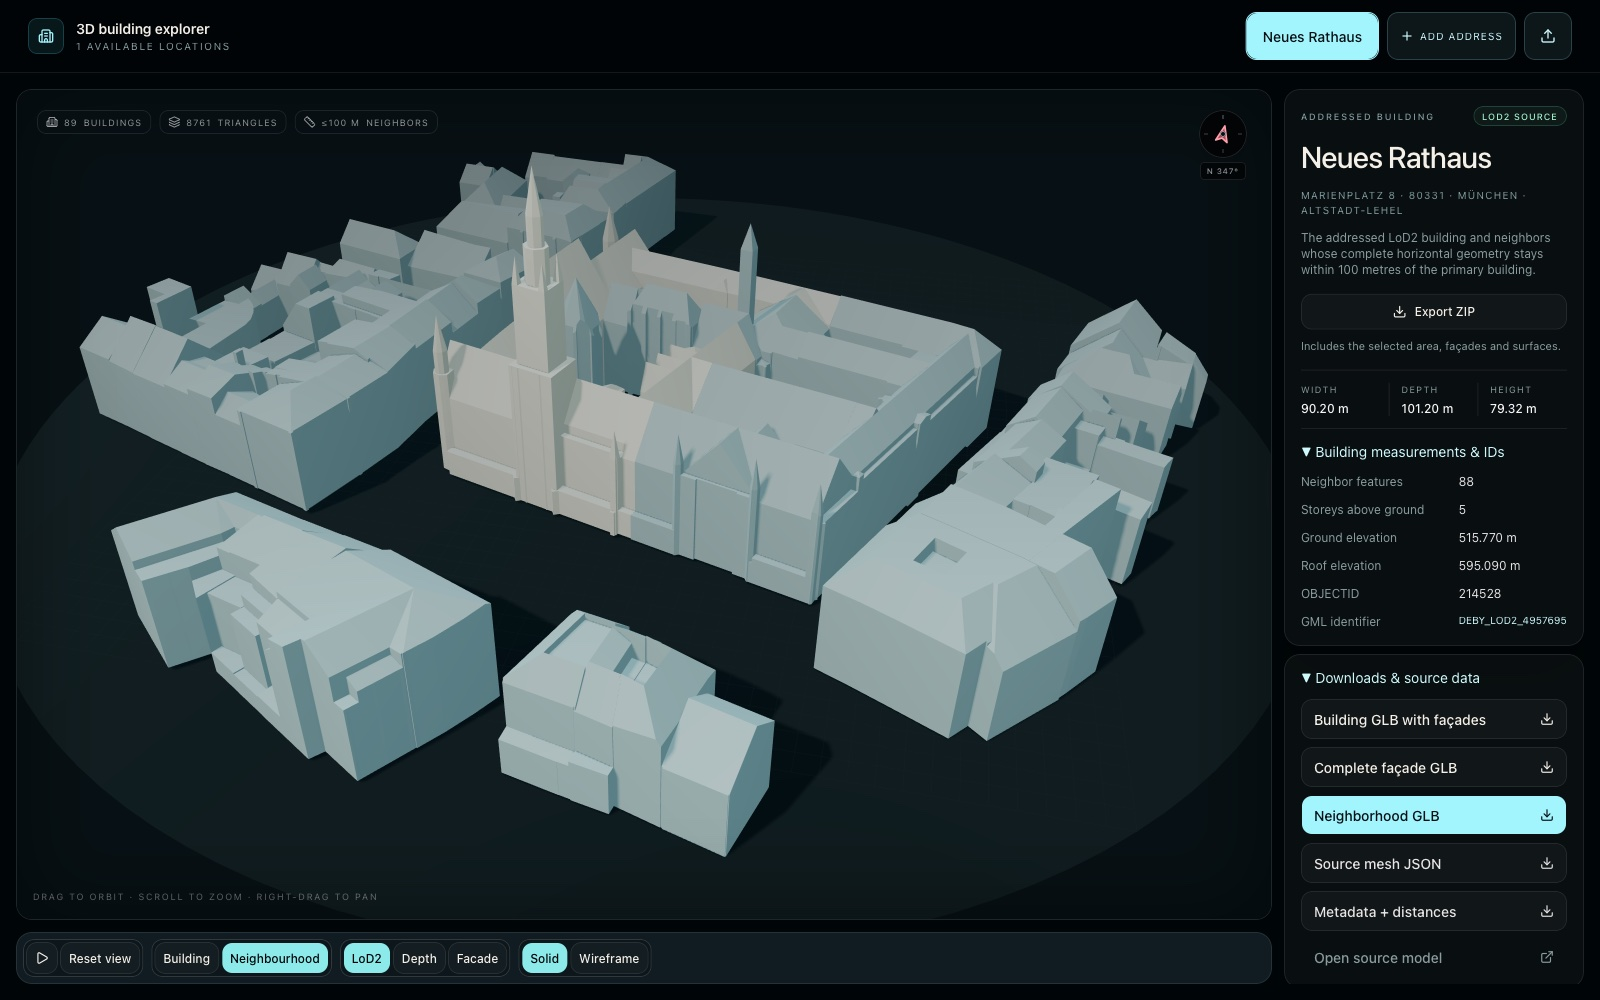
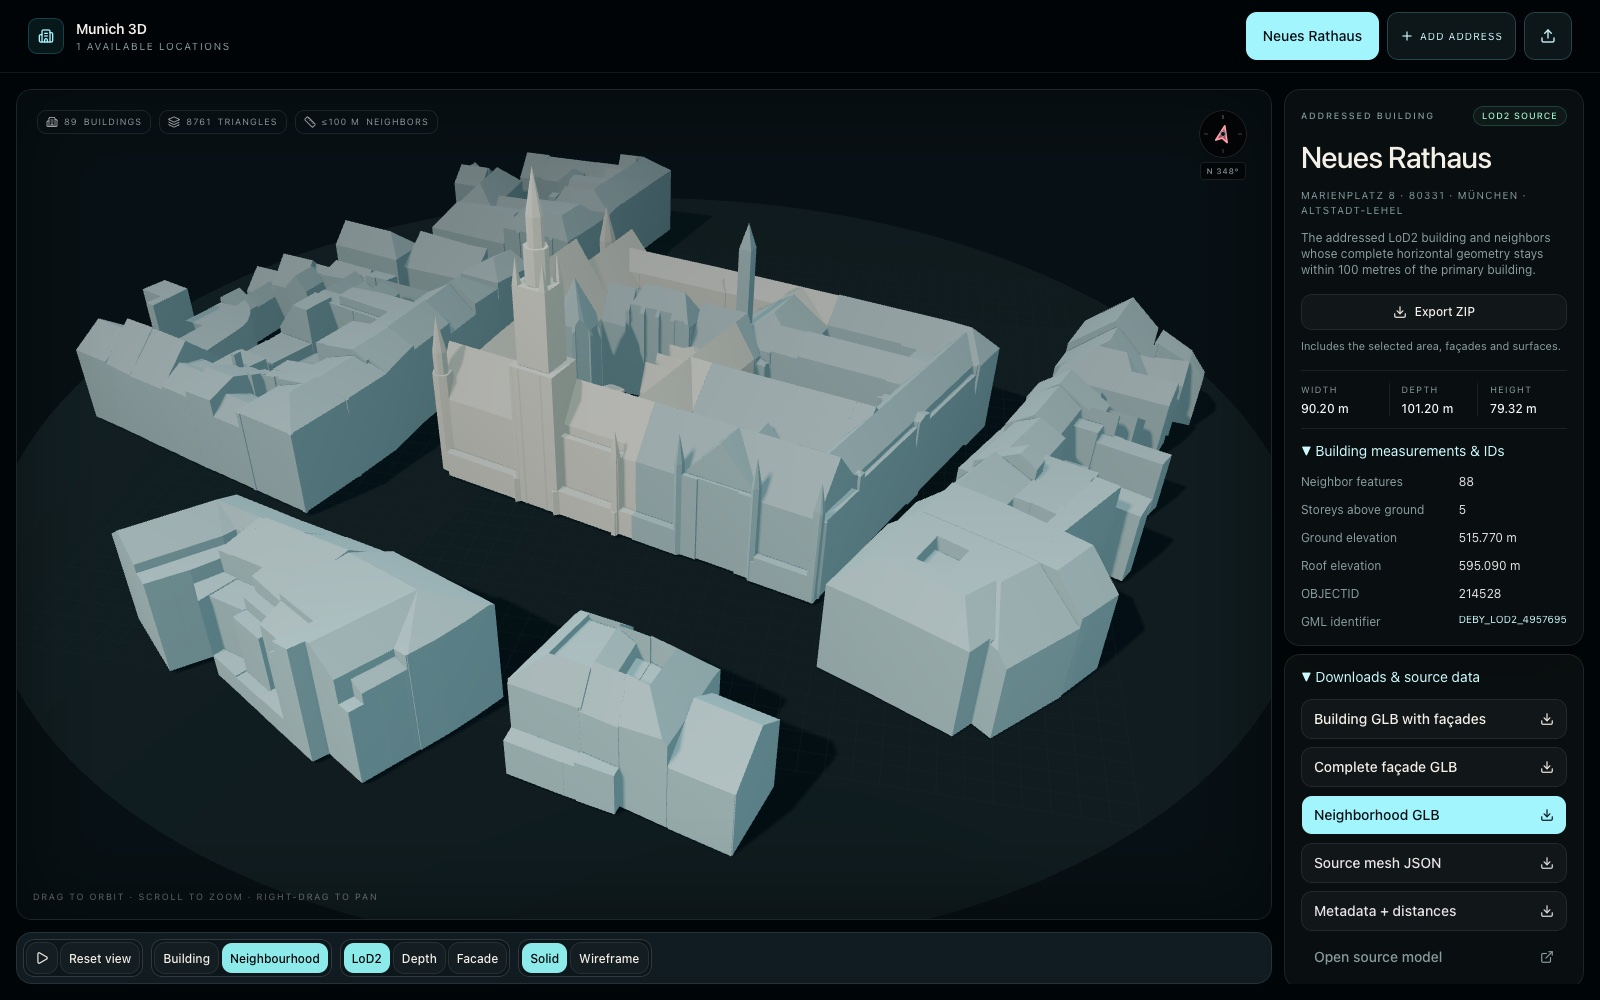
Fix iPhone form positioning and model view controls

diff --git a/website/src/App.tsx b/website/src/App.tsx
@@ -1,5 +1,6 @@
 import { exportFilename } from '@/lib/export-filename';
 import { useEffect, useRef, useState, type SyntheticEvent } from 'react';
+import { createPortal } from 'react-dom';
 import {
   Building2,
   Download,
@@ -351,6 +352,7 @@ export default function App() {
       setPlaces(remaining);
       setSelectedId((equivalentStatic ?? remaining[0]).id);
       setShowNeighbors(true);
+      setInfoOpen(false);
     } catch (error) {
       setModelActionError(
         error instanceof Error ? error.message : 'Model deletion failed',
@@ -378,7 +380,7 @@ export default function App() {
 
 
   return (
-    <main className="app-shell flex h-dvh min-h-0 flex-col overflow-hidden bg-background text-foreground">
+    <main inert={generatorOpen} className="app-shell flex h-dvh min-h-0 flex-col overflow-hidden bg-background text-foreground">
       <header className="app-header shrink-0 border-b border-white/8 bg-background/90 px-4 py-3 backdrop-blur-xl sm:px-7">
         <div className="header-layout mx-auto flex max-w-[1680px] flex-col gap-3 sm:flex-row sm:items-center sm:justify-between">
           <div className="header-brand flex min-w-0 items-center gap-3">
@@ -387,7 +389,7 @@ export default function App() {
             </span>
             <div className="min-w-0">
               <h1 className="truncate text-sm font-semibold tracking-[-0.01em]">
-                3D building explorer
+                Munich 3D
               </h1>
               <p className="truncate font-sans text-[10px] uppercase tracking-[0.16em] text-muted-foreground">
                 {locations.length} available locations
@@ -432,8 +434,8 @@ export default function App() {
         {shareOperation === 'import' && (sharing || shareMessage) && <p role="status" className="mx-auto mt-2 max-w-[1680px] text-xs text-cyan-100 sm:text-right">{sharing || shareMessage}</p>}
       </header>
 
-      {generatorOpen && (
-        <div className="dialog-overlay z-50 grid place-items-center bg-black/70 p-3 backdrop-blur-sm sm:p-4">
+      {generatorOpen && createPortal(
+        <div className="generator-overlay dialog-overlay z-50 grid place-items-center bg-black/70 p-3 sm:p-4">
           <dialog
             open
             aria-labelledby="generator-title"
@@ -544,7 +546,7 @@ export default function App() {
               </div>
             </form>
           </dialog>
-        </div>
+        </div>, document.body
       )}
 
       {deleteCandidate && (
@@ -632,7 +634,7 @@ export default function App() {
         <div ref={setControlsTarget} className="viewer-controls-host shrink-0" />
         </div>
         <aside aria-label="Building information" className={cn('building-information min-h-0 flex-col gap-2 overflow-y-auto lg:static lg:flex lg:w-auto lg:border-0 lg:bg-transparent lg:p-0', infoOpen ? 'fixed inset-y-3 right-3 z-40 flex w-[min(320px,calc(100vw-24px))] rounded-xl border border-white/15 bg-[#071014] p-3' : 'hidden')}>
-          <button type="button" onClick={() => setInfoOpen(false)} className="min-h-10 shrink-0 rounded-lg border border-white/15 text-sm lg:hidden">Close information</button>
+          <button type="button" onClick={() => setInfoOpen(false)} className="flex min-h-11 shrink-0 items-center justify-center gap-2 rounded-lg border border-cyan-200 bg-cyan-200 px-3 text-sm font-semibold text-[#061014] hover:bg-cyan-100 focus-visible:outline-2 focus-visible:outline-offset-2 focus-visible:outline-cyan-200 lg:hidden"><X className="size-4" aria-hidden="true" />Close information</button>
           <section className="panel shrink-0 px-4 py-4">
             <div className="mb-3 flex items-center justify-between gap-3">
               <p className="eyebrow">Addressed building</p>
@@ -782,13 +784,22 @@ export default function App() {
             </div>
           </details>
 
-          <footer className="mt-auto shrink-0 px-2 pb-2 pt-1 text-[10px] leading-4 text-muted-foreground">
-            <p>© 2026 Robert Zaufall</p>
-            <p>Building data: <a href="https://www.geodaten.bayern.de" className="hover:underline">Bayerische Vermessungsverwaltung – www.geodaten.bayern.de</a> · CC BY 4.0</p>
-            {place.areaSurfacePath && <p>Surface data: <a href="https://www.openstreetmap.org/copyright" className="hover:underline">© OpenStreetMap contributors · ODbL</a></p>}
+          <footer className="mt-auto hidden shrink-0 px-2 pb-2 pt-1 text-[10px] leading-4 text-muted-foreground lg:block">
+            <Attribution hasSurfaces={Boolean(place.areaSurfacePath)} />
           </footer>
         </aside>
       </div>
+      <footer className="shrink-0 border-t border-white/10 px-6 py-3 text-[10px] leading-4 text-muted-foreground lg:hidden">
+        <Attribution hasSurfaces={Boolean(place.areaSurfacePath)} />
+      </footer>
     </main>
   );
+}
+
+function Attribution({ hasSurfaces }: { hasSurfaces: boolean }) {
+  return <>
+    <p>© 2026 Robert Zaufall</p>
+    <p>Building data: <a href="https://www.geodaten.bayern.de" className="hover:underline">Bayerische Vermessungsverwaltung – www.geodaten.bayern.de</a> · CC BY 4.0</p>
+    {hasSurfaces && <p>Surface data: <a href="https://www.openstreetmap.org/copyright" className="hover:underline">© OpenStreetMap contributors · ODbL</a></p>}
+  </>;
 }

diff --git a/website/components/house-viewer.tsx b/website/components/house-viewer.tsx
@@ -70,6 +70,7 @@ export function HouseViewer({
   const [status, setStatus] = useState<'loading' | 'ready' | 'error'>('loading');
   const [autoRotate, setAutoRotate] = useState(true);
   const [wireframe, setWireframe] = useState(false);
+  const [resetRequest, setResetRequest] = useState(0);
   const [depthMap, setDepthMap] = useState(false);
 
   useEffect(() => {
@@ -511,6 +512,19 @@ export function HouseViewer({
 
   useEffect(() => { wireframeRef.current = wireframe; }, [wireframe]);
 
+  // Fit after the parent scope and display changes have updated their refs.
+  useEffect(() => {
+    if (resetRequest) fitViewRef.current?.();
+  }, [resetRequest]);
+
+  const resetToDefaults = () => {
+    setDepthMap(false);
+    setWireframe(false);
+    onReconstructionChange?.(false);
+    onNeighborsChange?.(true);
+    setResetRequest(value => value + 1);
+  };
+
 
   const resetView = () => {
     const camera = cameraRef.current;
@@ -614,7 +628,7 @@ export function HouseViewer({
             <Button className="size-8 shrink-0 p-0" variant={autoRotate ? 'default' : 'outline'} aria-label={autoRotate ? 'Pause rotation' : 'Rotate view'} title={autoRotate ? 'Pause rotation' : 'Rotate view'} aria-pressed={autoRotate} onClick={() => setAutoRotate(v => !v)}>
               {autoRotate ? <Pause className="size-3.5" /> : <Play className="size-3.5" />}
             </Button>
-            <Button className={compactButton} variant="outline" onClick={resetView}>Reset view</Button>
+            <Button className={compactButton} variant="outline" onClick={resetToDefaults}>Reset view</Button>
           </div>
           {onInformationOpen && <Button className={`${compactButton} controls-info lg:hidden`} variant="outline" aria-label="Building information & area size" title="Building information & area size" onClick={onInformationOpen}>Info</Button>}
         </nav>, controlsTarget)}

diff --git a/website/src/globals.css b/website/src/globals.css
@@ -140,6 +140,8 @@ canvas {
   background: #0b171c;
   max-height: 100%;
   scroll-padding-block: 1rem;
+  backdrop-filter: none;
+  -webkit-backdrop-filter: none;
 }
 
 .dialog-panel input {
@@ -169,6 +171,36 @@ canvas {
 }
 
 @media (max-width: 1023px) {
+  /* Keep text inputs in document flow, outside iOS's fixed-position caret layer.
+     Let Safari scroll the form for its keyboard instead of moving it in JS. */
+  html:has(.generator-overlay), body:has(.generator-overlay),
+  body:has(.generator-overlay) #root {
+    height: auto;
+    min-height: 100%;
+    overflow: visible;
+  }
+  body:has(.generator-overlay) .app-shell {
+    position: absolute;
+    top: 0;
+    visibility: hidden;
+    pointer-events: none;
+  }
+  .generator-overlay {
+    position: static;
+    display: block;
+    height: auto;
+    min-height: 100svh;
+    padding-top: max(0.75rem, env(safe-area-inset-top));
+    padding-bottom: max(0.75rem, env(safe-area-inset-bottom));
+    background: #071014;
+  }
+  .generator-overlay .generator-panel {
+    position: static;
+    max-height: none;
+    margin-inline: auto;
+    overflow: visible;
+  }
+  .generator-panel > button[aria-label="Close address generator"] { position: static; float: right; margin: -0.5rem -0.5rem 0 0.5rem; }
   .app-shell {
     width: min(100%, var(--app-width, 100%));
     max-width: 100%;

diff --git a/website/index.html b/website/index.html
@@ -8,7 +8,7 @@
       content="Explore all available source-matched LoD2 building neighborhoods in Munich."
     />
     <link rel="icon" type="image/svg+xml" href="/favicon.svg" />
-    <title>München 3D explorer</title>
+    <title>Munich 3D</title>
   </head>
   <body>
     <div id="root"></div>

diff --git a/README.md b/README.md
@@ -48,14 +48,18 @@ when needed, without horizontal scrolling in portrait. The **+** button opens
 Add address; Import ZIP stays beside it.
 Clear margins on both sides of the model allow vertical scrolling on short screens
 without rotating the model; dragging within the model still controls the camera.
-The address dialog scrolls within the space above the keyboard. Its distance field can be cleared
+On phones, copyright and data attribution appear at the bottom of the main page.
+The information panel has a filled **Close information** button at the top.
+On phones, Add address opens a normal scrolling form so Safari can position the
+keyboard and text caret together. Its distance field can be cleared
 while editing; focusing a value of **0** selects it for replacement.
+Deleting a model successfully closes the mobile information panel and selects a fallback.
 
 The bottom bar groups direct controls:
 
 - **Rotation icon / Reset view**: rotation starts automatically; pause or resume
-  it with the icon. Reset view restores the camera framing for the current
-  Building / Neighbourhood scope without changing display mode or playback.
+  it with the icon. Reset view restores **LoD2**, **Solid** and **Neighbourhood**,
+  then fits the camera again. Playback stays as it was.
 - **Building / Neighbourhood**: change visibility and fit the camera. Clicking
   the selected scope returns to its home framing. Explicitly grouped connected
   parts remain with the main building; independent neighbors hide in Building mode.
@@ -405,7 +409,7 @@ contains only **Neues Rathaus**, and use only its ZIP for the import example.
 Do not clear the user's browser storage to prepare documentation.
 
 Set the viewport to 1600 × 1000, wait for the model to finish loading, pause
-rotation, and use Reset view after choosing Building or Neighbourhood. Wait for
+rotation, and use Reset view before choosing the required scope and display mode. Wait for
 button transitions and the scene to settle before each capture. Refresh the six
 explorer/form images above and `docs/address-import.jpg`; retain the current
 controls, source attribution and copyright. Review every capture for private

diff --git a/AGENTS.md b/AGENTS.md
@@ -63,7 +63,8 @@ setup, extraction commands, asset layout and runtime architecture.
 - Maintain one unified explorer. Default to Rathaus 100 m and original LoD2.
 - Keep compact, direct controls in a bottom bar: rotation icon and Reset view; Building /
   Neighbourhood; LoD2 / Depth / Facade; independent Solid / Wireframe. Rotation
-  starts enabled. Reset view preserves display mode and playback. Show only
+  starts enabled. Reset view restores LoD2, Solid and Neighbourhood and refits the
+  camera while preserving playback. Show only
   applicable controls. Wrap the bar into compact rows on phones so every control
   fits in portrait without horizontal scrolling. No dropdowns, Entrance or Streets buttons.
 - Keep details open by default and available area-width choices in the right
@@ -150,8 +151,9 @@ setup, extraction commands, asset layout and runtime architecture.
   containing only public assets. Check the chooser and import cache; private
   names can appear even when they are Git-ignored. Never clear user browser
   storage or remove private folders to prepare screenshots.
-- Use 1600 × 1000, wait for model readiness, pause rotation and reset the selected
-  scope. Let transitions settle so button states match the rendered scene.
+- Use 1600 × 1000, wait for model readiness, pause rotation and reset the view,
+  then select the required scope and display mode. Let transitions settle so
+  button states match the rendered scene.
   Review every image before publication, including dialogs and import status.
 - Refresh the homepage, neighbourhood facade, building facade, reconstruction
   wireframe, source depth, Add address form and public ZIP import example under
